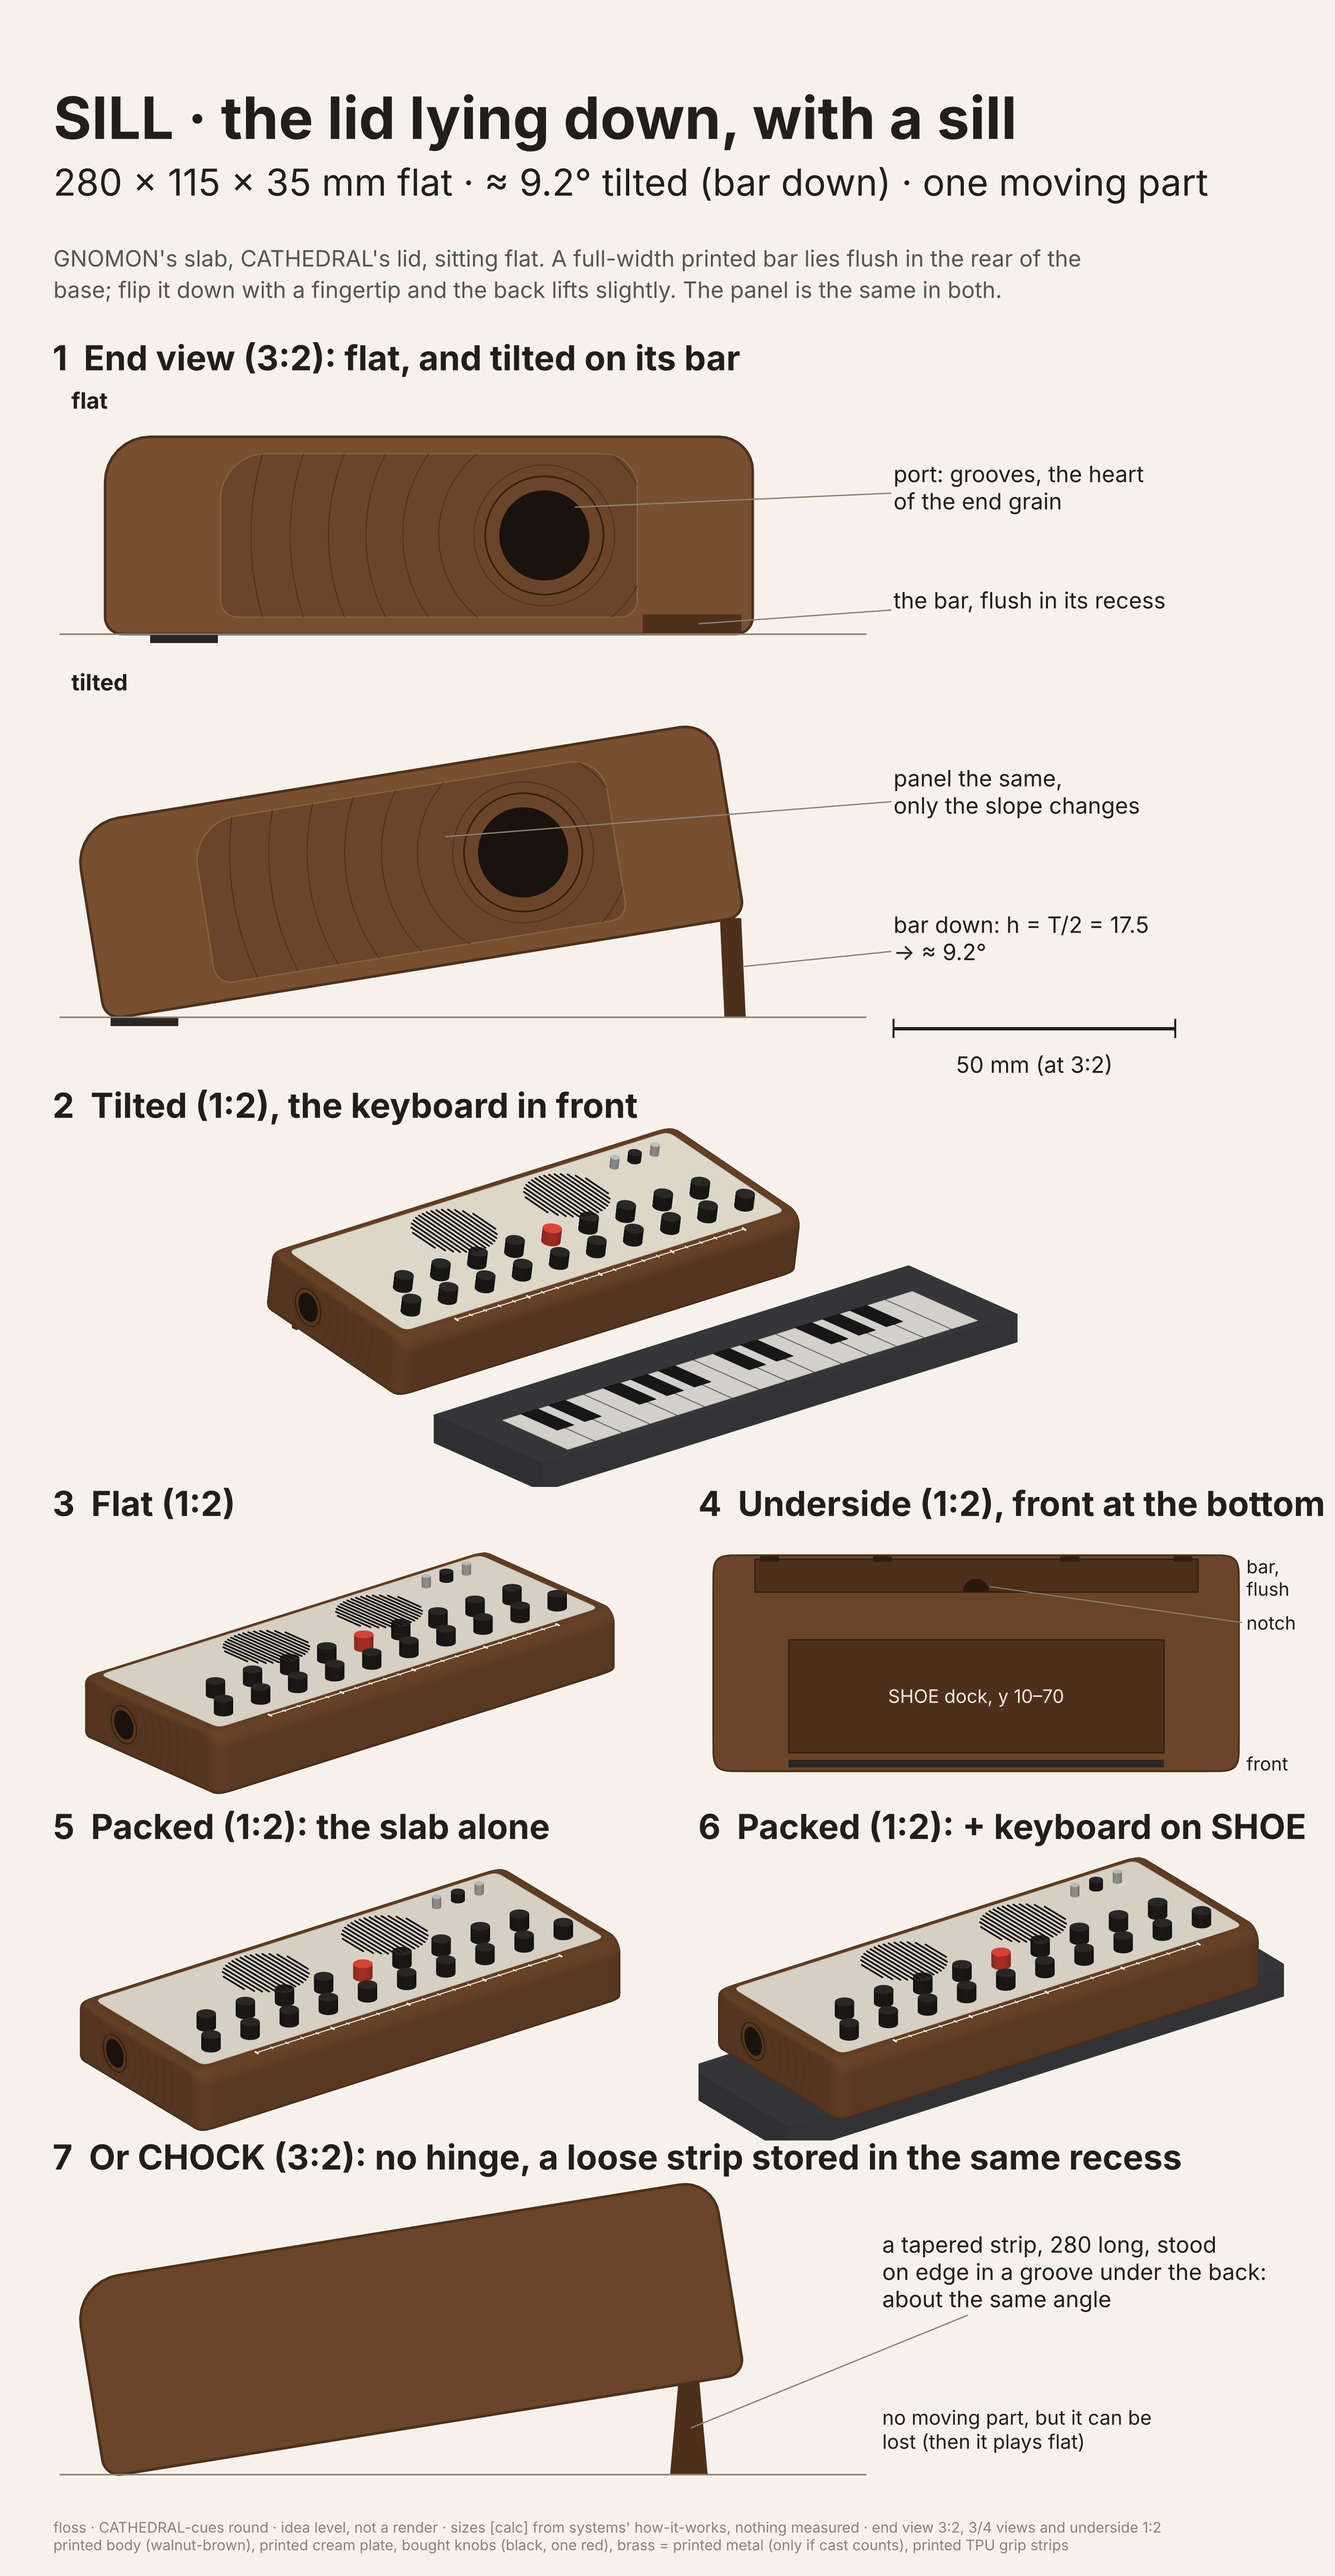
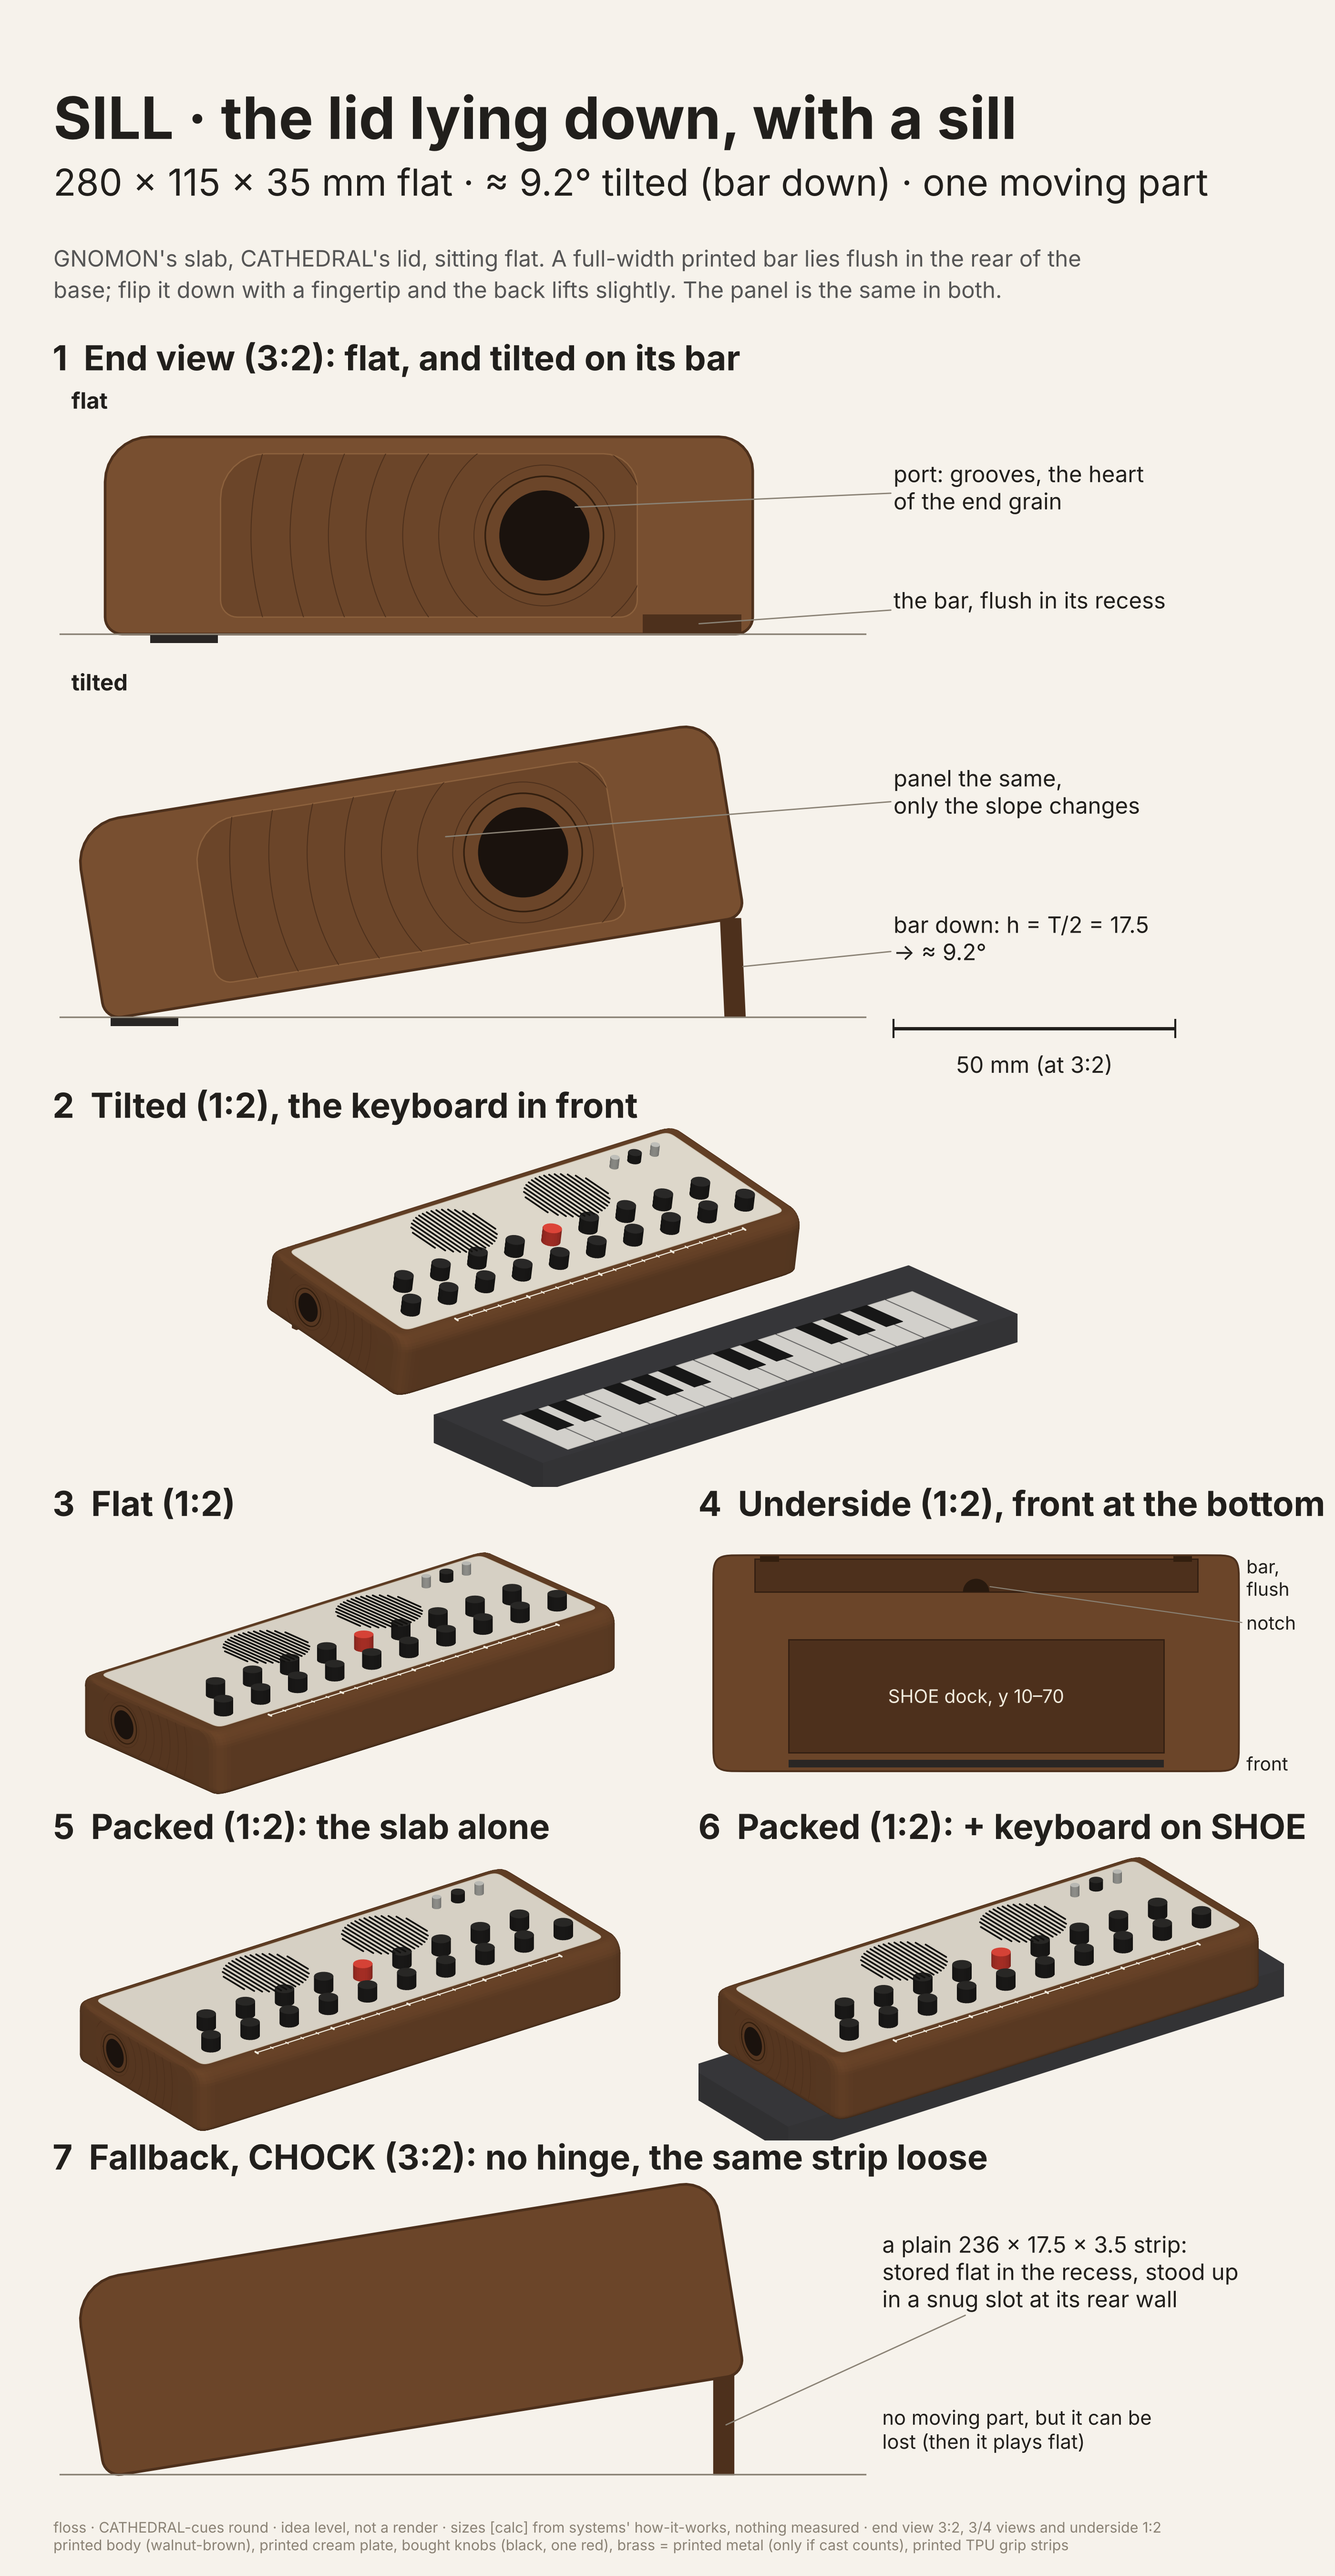
floss: SILL sheet fixes

diff --git a/floss/design/concepts/_src/cathedral_sheets.py b/floss/design/concepts/_src/cathedral_sheets.py
@@ -871,7 +871,7 @@ def sheet_sill(path):
     ax.text(W/2, 40, "SHOE dock, y 10–70", ha="center", va="center", fontsize=SML-3, color=CREAM)
     ax.add_patch(Rectangle((22, D-2-H), W-44, H, fc=(0.30, 0.19, 0.11), ec=(0.2, 0.12, 0.07), lw=1.0))
     ax.add_patch(Wedge((W/2, D-2-H), 7, 0, 180, fc=(0.16, 0.10, 0.06), ec="none"))
-    for kx in (30, 90, W-90, W-30): ax.add_patch(Rectangle((kx-5, D-3.5), 10, 3, fc=(0.20, 0.12, 0.06), ec="none"))
+    for kx in (30, W-30): ax.add_patch(Rectangle((kx-5, D-3.5), 10, 3, fc=(0.20, 0.12, 0.06), ec="none"))
     ax.add_patch(Rectangle((40, 2), W-80, 4, fc=TPU, ec="none"))
     ax.text(W+4, D-12, "bar,\nflush", fontsize=SML-3, color=INK, va="center")
     ax.text(W+4, D-36, "notch", fontsize=SML-3, color=INK, va="center")
@@ -888,16 +888,17 @@ def sheet_sill(path):
     cp = camq.p((W/2, 55, 8)); ax = axes_mm(fig, box_mm, 0.5, (cp[0], cp[1]+6)); scq.draw(ax)
     # 7. CHOCK inset
     box_mm = (14, 20, 328, 86)
-    heading(fig, box_mm, "7  Or CHOCK (3:2): no hinge, a loose strip stored in the same recess")
+    heading(fig, box_mm, "7  Fallback, CHOCK (3:2): no hinge, the same strip loose")
     ax = axes_mm(fig, box_mm, 1.5, (100, 24))
     tf = tfT
     prof = [tf(p) for p in prof_flat]; z0 = min(z for y, z in prof)
     hx, hz = tf((D-10, 0.0)); hz -= z0
-    ch = [(hx-3.2, 0.0), (hx+3.2, 0.0), (hx+1.6, hz+1.5), (hx-1.6, hz+1.5)]
+    hx, hz = tf((D-2-BAR_T/2, 0.0)); hz -= z0
+    ch = [(hx-BAR_T/2, 0.0), (hx+BAR_T/2, 0.0), (hx+BAR_T/2, hz+2.0), (hx-BAR_T/2, hz+2.0)]
     ax.add_patch(Polygon(ch, closed=True, fc=(0.30, 0.19, 0.11), ec=WALD, lw=1.2))
     ax.add_patch(Polygon([(y, z - z0) for y, z in prof], closed=True, fc=WAL, ec=WALD, lw=2.0))
     ax.plot([-8, 135], [0, 0], color=GREY, lw=1.2)
-    leader(ax, (hx, hz/2), "a tapered strip, 280 long, stood\non edge in a groove under the back:\nabout the same angle", (138, 36))
+    leader(ax, (hx, hz/2), "a plain 236 × 17.5 × 3.5 strip:\nstored flat in the recess, stood up\nin a snug slot at its rear wall", (138, 36))
     ax.text(138, 8, "no moving part, but it can be\nlost (then it plays flat)", fontsize=SML-2, color=INK, va="center")
     save(fig, path)
     FIG_H = old_h

diff --git a/floss/design/concepts/r2-sill/how-it-looks-and-feels.md b/floss/design/concepts/r2-sill/how-it-looks-and-feels.md
@@ -48,10 +48,10 @@ GNOMON's cheeks and its section hairline are gone, because there's no lid-plus-t
 | 1. End view (3:2) | Flat, with the bar flush in its recess at the back of the base; tilted, with the bar down under the back at ≈ 9.2°. The front TPU strip shows in both |
 | 2. Tilted 3/4, keyboard in front | The play pose. The bar is hidden behind the slab, which is the point |
 | 3. Flat 3/4 | The same panel, level |
-| 4. Underside (plan) | The flush bar at the rear (y ≈ 95–113) with its centre finger notch and hinge knuckles; the SHOE dock (y 10–70), clear of it; the front TPU strip |
+| 4. Underside (plan) | The flush bar at the rear (y ≈ 95–113) with its centre finger notch and **two hinge knuckles at x ≈ 30 and 250** (loads go into a full-length stop; each knuckle pocket costs speaker volume, systems rev 2); the SHOE dock (y 10–70), clear of it; the front TPU strip |
 | 5. Packed | The slab alone |
 | 6. Packed | With the keyboard on SHOE |
-| 7. CHOCK inset | The no-hinge variant: a loose strip stood under the back |
+| 7. CHOCK inset (fallback only) | The no-hinge variant: the same strip, loose, stood in a slot under the back |
 
 ## Feel
 - **Flat:** a quiet slab you can put anywhere: table, lap or grass.
@@ -59,15 +59,11 @@ GNOMON's cheeks and its section hairline are gone, because there's no lid-plus-t
 - **Playing:** a low desk angle, your wrist on the soft front edge. From the player's side it looks like the lid simply rests at a slight lean.
 - **In the bag:** the smallest object of the loop, 280 × 115 × 35, with nothing sticking out.
 
-## CHOCK (inset): an honest note for systems
-The director asked for "a loose full-width wedge stored in the same recess". **A true wedge 17.5 tall won't fit a 3.5 mm recess**, and a recess deep enough for one would take ≈ 50 cm³ from E's box [calc, rough]. So I drew CHOCK as a **loose tapered strip** (≈ 17.5 × 6 at the foot × 280). It lies flat in the bar's recess and stands on edge in a shallow groove under the back.
+## CHOCK (inset): a one-line fallback
+Systems rev 2 settles it. **A uniform 236 × 17.5 × 3.5 strip** lies flat in the same recess. To tilt, it stands up in a snug slot along the recess's rear wall, giving the same ≈ 9.2°. A tapered strip wouldn't store, so it's gone.
 
-That makes it functionally a bar with no hinge. Its trade, unchanged: **no moving part, but it can be lost** (then floss plays flat). **Systems: please confirm the groove, or say whether CHOCK means something else.**
+Trade: no moving part, but it can be lost (then floss plays flat). Systems recommends it **only as a fallback**, so the inset is labelled that way.
 
 ## Open
-- **For systems:**
-  - the bar's length (drawn ≈ 236, inside the n 5 corners);
-  - the knuckle positions (drawn at x 30 / 90 / 190 / 250);
-  - the notch at centre;
-  - CHOCK's groove (above).
+- **Systems confirmed:** the bar ≈ 236 long, the centre notch, two knuckles at x ≈ 30 / 250, and CHOCK as a uniform strip in a rear-wall slot.
 - **For the owner:** end speakers or the plate (pending); whether a steel pin counts as "stuff"; the carry (SHOE / loose / band).

diff --git a/floss/design/notes/visual.md b/floss/design/notes/visual.md
@@ -550,3 +550,4 @@ Rev 4 was a sharp extrusion.
 **Flag:** a true 17.5 wedge can't store in the 3.5 recess, so CHOCK is drawn as a loose tapered strip stood in a groove. Systems to confirm.
 
 **Next:** the director scores SILL.
+- SILL, after systems rev 2: two knuckles (x ≈ 30 / 250); CHOCK redrawn as a uniform 236 × 17.5 × 3.5 strip, stored flat and stood in a rear-wall slot, labelled as a fallback. Sheet and md updated.
